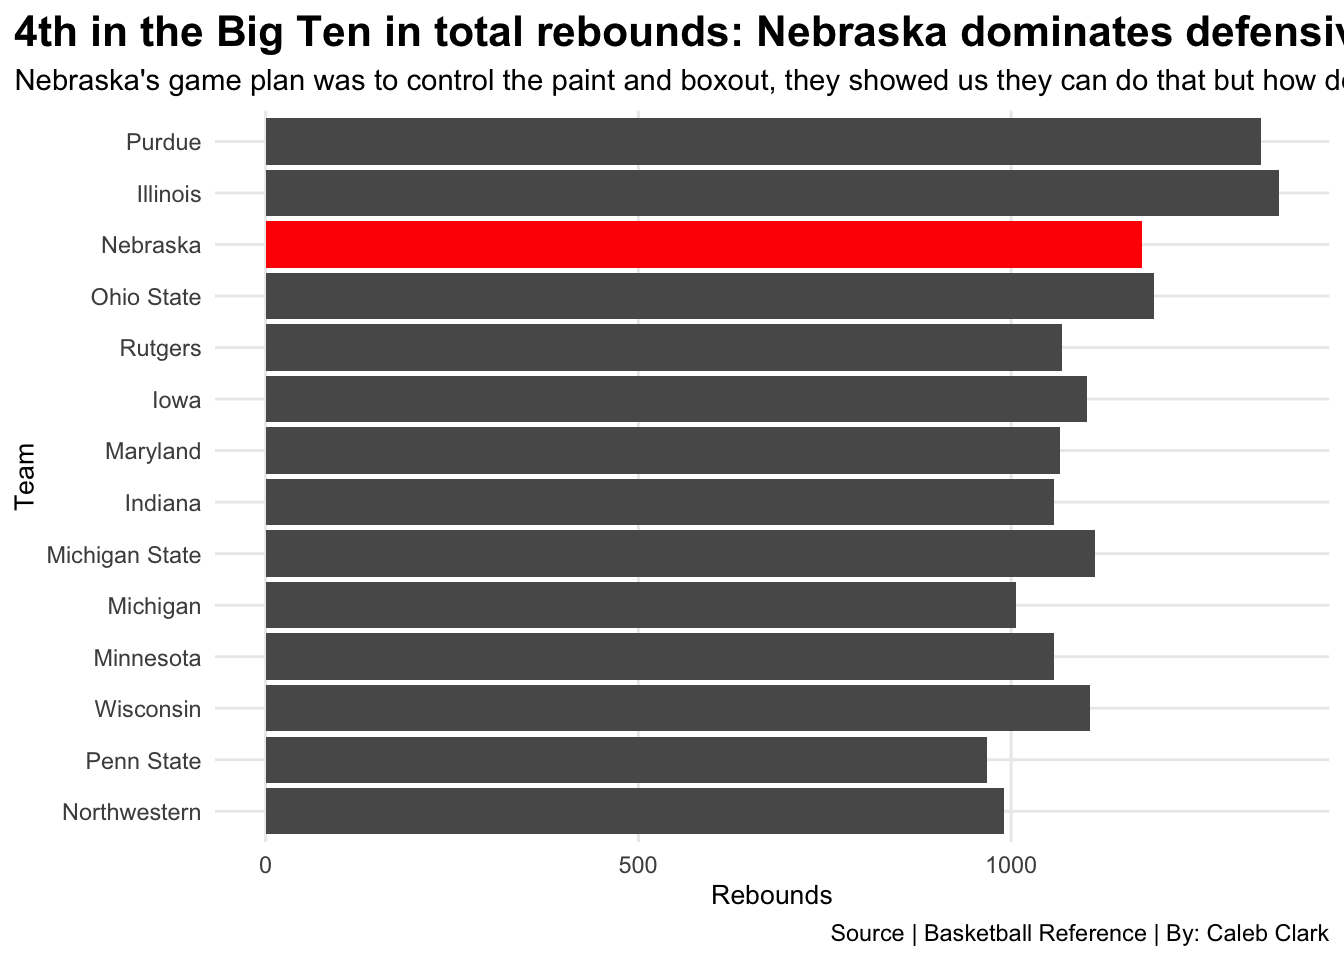
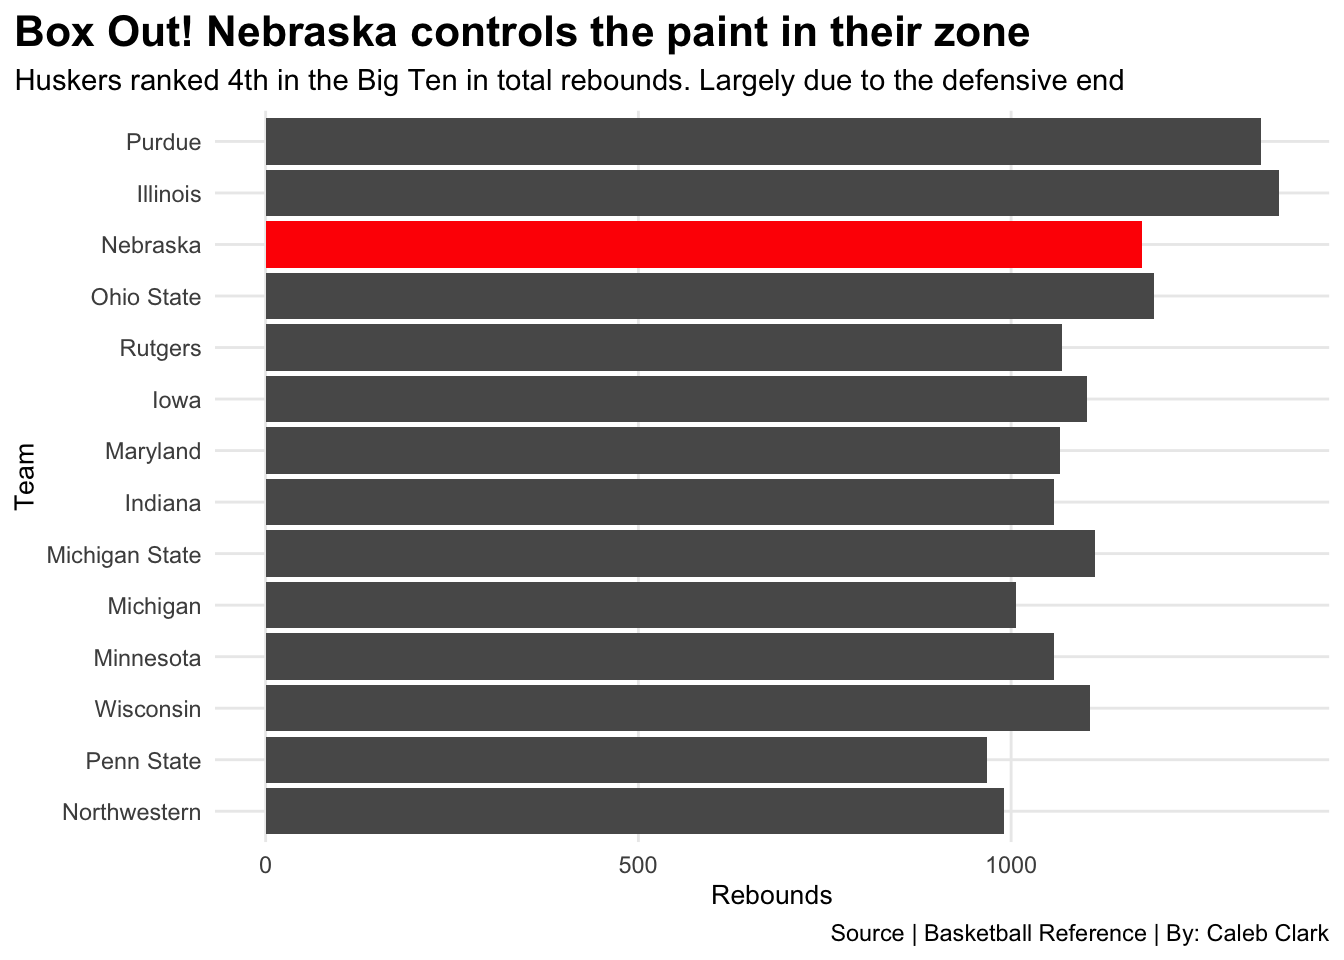
Updated blog

Changed region(s): [[0.0, 0.0, 1.0, 0.0938]]

diff --git a/posts/husker-basketball-rebounding-struggles/index.html b/posts/husker-basketball-rebounding-struggles/index.html
@@ -7,7 +7,7 @@
 <meta name="viewport" content="width=device-width, initial-scale=1.0, user-scalable=yes">
 
 <meta name="author" content="Caleb Clark">
-<meta name="dcterms.date" content="2024-11-05">
+<meta name="dcterms.date" content="2024-11-17">
 
 <title>Huskers rebounding is really good… and really bad. How? – Caleb Clark's Blog</title>
 <style>
@@ -176,7 +176,7 @@ pre > code.sourceCode > span > a:first-child::before { text-decoration: underlin
       <div>
       <div class="quarto-title-meta-heading">Published</div>
       <div class="quarto-title-meta-contents">
-        <p class="date">November 5, 2024</p>
+        <p class="date">November 17, 2024</p>
       </div>
     </div>
     
@@ -296,8 +296,8 @@ pre > code.sourceCode > span > a:first-child::before { text-decoration: underlin
 <span id="cb3-11"><a href="#cb3-11" aria-hidden="true" tabindex="-1"></a>  <span class="fu">geom_bar</span>(<span class="at">data=</span>huskers, <span class="fu">aes</span>(<span class="at">x=</span><span class="fu">reorder</span>(Team, TeamTotalRebounds), <span class="at">weight=</span>TeamTotalRebounds), <span class="at">fill=</span><span class="st">"red"</span>) <span class="sc">+</span></span>
 <span id="cb3-12"><a href="#cb3-12" aria-hidden="true" tabindex="-1"></a>  <span class="fu">coord_flip</span>() <span class="sc">+</span></span>
 <span id="cb3-13"><a href="#cb3-13" aria-hidden="true" tabindex="-1"></a> <span class="fu">labs</span>(</span>
-<span id="cb3-14"><a href="#cb3-14" aria-hidden="true" tabindex="-1"></a>    <span class="at">title =</span> <span class="st">"4th in the Big Ten in total rebounds: Nebraska dominates defensively"</span>,</span>
-<span id="cb3-15"><a href="#cb3-15" aria-hidden="true" tabindex="-1"></a>    <span class="at">subtitle =</span> <span class="st">"Nebraska's game plan was to control the paint and boxout, they showed us they can do that but how does it compare offensively"</span>,</span>
+<span id="cb3-14"><a href="#cb3-14" aria-hidden="true" tabindex="-1"></a>    <span class="at">title =</span> <span class="st">"Box Out! Nebraska controls the paint in their zone"</span>,</span>
+<span id="cb3-15"><a href="#cb3-15" aria-hidden="true" tabindex="-1"></a>    <span class="at">subtitle =</span> <span class="st">"Huskers ranked 4th in the Big Ten in total rebounds. Largely due to the defensive end"</span>,</span>
 <span id="cb3-16"><a href="#cb3-16" aria-hidden="true" tabindex="-1"></a>    <span class="at">x =</span> <span class="st">"Team"</span>,</span>
 <span id="cb3-17"><a href="#cb3-17" aria-hidden="true" tabindex="-1"></a>    <span class="at">y =</span> <span class="st">"Rebounds"</span>,</span>
 <span id="cb3-18"><a href="#cb3-18" aria-hidden="true" tabindex="-1"></a>    <span class="at">fill =</span> <span class="st">"Rebound Type"</span>,</span>
@@ -331,23 +331,22 @@ pre > code.sourceCode > span > a:first-child::before { text-decoration: underlin
 <span id="cb4-3"><a href="#cb4-3" aria-hidden="true" tabindex="-1"></a>  <span class="fu">geom_bar</span>(<span class="at">data=</span>huskers, <span class="fu">aes</span>(<span class="at">x=</span><span class="fu">reorder</span>(Team, TeamOffRebounds), <span class="at">weight=</span>TeamOffRebounds), <span class="at">fill=</span><span class="st">"red"</span>) <span class="sc">+</span></span>
 <span id="cb4-4"><a href="#cb4-4" aria-hidden="true" tabindex="-1"></a>  <span class="fu">coord_flip</span>() <span class="sc">+</span></span>
 <span id="cb4-5"><a href="#cb4-5" aria-hidden="true" tabindex="-1"></a> <span class="fu">labs</span>(</span>
-<span id="cb4-6"><a href="#cb4-6" aria-hidden="true" tabindex="-1"></a>    <span class="at">title =</span> <span class="st">"The downfall of the Huskers. Their rebounding formula did not translate to the offensive side of the ball"</span>,</span>
-<span id="cb4-7"><a href="#cb4-7" aria-hidden="true" tabindex="-1"></a>    <span class="at">subtitle =</span> <span class="st">"They fell short not generating enough second chance opportunities"</span>,</span>
+<span id="cb4-6"><a href="#cb4-6" aria-hidden="true" tabindex="-1"></a>    <span class="at">title =</span> <span class="st">"Downfall of the Huskers. Can't get second chances"</span>,</span>
+<span id="cb4-7"><a href="#cb4-7" aria-hidden="true" tabindex="-1"></a>    <span class="at">subtitle =</span> <span class="st">"Huskers finished 11th in offensive rebounds, not matching their production on the defensive end"</span>,</span>
 <span id="cb4-8"><a href="#cb4-8" aria-hidden="true" tabindex="-1"></a>    <span class="at">x =</span> <span class="st">"Team"</span>,</span>
 <span id="cb4-9"><a href="#cb4-9" aria-hidden="true" tabindex="-1"></a>    <span class="at">y =</span> <span class="st">"Offensive Rebounds"</span>,</span>
 <span id="cb4-10"><a href="#cb4-10" aria-hidden="true" tabindex="-1"></a>    <span class="at">fill =</span> <span class="st">"Rebound Type"</span>,</span>
 <span id="cb4-11"><a href="#cb4-11" aria-hidden="true" tabindex="-1"></a>    <span class="at">caption =</span> <span class="st">"Source | Basketball Reference | By: Caleb Clark"</span></span>
 <span id="cb4-12"><a href="#cb4-12" aria-hidden="true" tabindex="-1"></a>    </span>
-<span id="cb4-13"><a href="#cb4-13" aria-hidden="true" tabindex="-1"></a>    </span>
-<span id="cb4-14"><a href="#cb4-14" aria-hidden="true" tabindex="-1"></a>  ) <span class="sc">+</span></span>
-<span id="cb4-15"><a href="#cb4-15" aria-hidden="true" tabindex="-1"></a>  <span class="fu">theme_minimal</span>()<span class="sc">+</span></span>
-<span id="cb4-16"><a href="#cb4-16" aria-hidden="true" tabindex="-1"></a>    <span class="fu">theme</span>(</span>
-<span id="cb4-17"><a href="#cb4-17" aria-hidden="true" tabindex="-1"></a>    <span class="at">plot.title =</span> <span class="fu">element_text</span>(<span class="at">size =</span> <span class="dv">16</span>, <span class="at">face=</span> <span class="st">"bold"</span>),</span>
-<span id="cb4-18"><a href="#cb4-18" aria-hidden="true" tabindex="-1"></a>    <span class="at">axis.title =</span> <span class="fu">element_text</span>(<span class="at">size=</span><span class="dv">10</span>),</span>
-<span id="cb4-19"><a href="#cb4-19" aria-hidden="true" tabindex="-1"></a>    <span class="at">plot.subtitle =</span> <span class="fu">element_text</span>(<span class="at">size=</span><span class="dv">11</span>),</span>
-<span id="cb4-20"><a href="#cb4-20" aria-hidden="true" tabindex="-1"></a>    <span class="at">plot.title.position =</span> <span class="st">"plot"</span>,</span>
-<span id="cb4-21"><a href="#cb4-21" aria-hidden="true" tabindex="-1"></a>    <span class="at">panel.grid.minor =</span> <span class="fu">element_blank</span>()</span>
-<span id="cb4-22"><a href="#cb4-22" aria-hidden="true" tabindex="-1"></a>)</span></code><button title="Copy to Clipboard" class="code-copy-button"><i class="bi"></i></button></pre></div>
+<span id="cb4-13"><a href="#cb4-13" aria-hidden="true" tabindex="-1"></a>  ) <span class="sc">+</span></span>
+<span id="cb4-14"><a href="#cb4-14" aria-hidden="true" tabindex="-1"></a>  <span class="fu">theme_minimal</span>()<span class="sc">+</span></span>
+<span id="cb4-15"><a href="#cb4-15" aria-hidden="true" tabindex="-1"></a>    <span class="fu">theme</span>(</span>
+<span id="cb4-16"><a href="#cb4-16" aria-hidden="true" tabindex="-1"></a>    <span class="at">plot.title =</span> <span class="fu">element_text</span>(<span class="at">size =</span> <span class="dv">16</span>, <span class="at">face=</span> <span class="st">"bold"</span>),</span>
+<span id="cb4-17"><a href="#cb4-17" aria-hidden="true" tabindex="-1"></a>    <span class="at">axis.title =</span> <span class="fu">element_text</span>(<span class="at">size=</span><span class="dv">10</span>),</span>
+<span id="cb4-18"><a href="#cb4-18" aria-hidden="true" tabindex="-1"></a>    <span class="at">plot.subtitle =</span> <span class="fu">element_text</span>(<span class="at">size=</span><span class="dv">11</span>),</span>
+<span id="cb4-19"><a href="#cb4-19" aria-hidden="true" tabindex="-1"></a>    <span class="at">plot.title.position =</span> <span class="st">"plot"</span>,</span>
+<span id="cb4-20"><a href="#cb4-20" aria-hidden="true" tabindex="-1"></a>    <span class="at">panel.grid.minor =</span> <span class="fu">element_blank</span>()</span>
+<span id="cb4-21"><a href="#cb4-21" aria-hidden="true" tabindex="-1"></a>)</span></code><button title="Copy to Clipboard" class="code-copy-button"><i class="bi"></i></button></pre></div>
 </details>
 <div class="cell-output-display">
 <div>
@@ -417,7 +416,7 @@ pre > code.sourceCode > span > a:first-child::before { text-decoration: underlin
 <span id="cb5-53"><a href="#cb5-53" aria-hidden="true" tabindex="-1"></a>  <span class="at">x=</span> <span class="st">"Total rebounds during the 2023-24 season"</span>,</span>
 <span id="cb5-54"><a href="#cb5-54" aria-hidden="true" tabindex="-1"></a>  <span class="at">y=</span><span class="st">"Offensive rebounds during 2023-24 season"</span>,</span>
 <span id="cb5-55"><a href="#cb5-55" aria-hidden="true" tabindex="-1"></a>  <span class="at">title =</span> <span class="st">"Huskers rebounding compared to top teams in NCAA"</span>,</span>
-<span id="cb5-56"><a href="#cb5-56" aria-hidden="true" tabindex="-1"></a>  <span class="at">subtitle=</span> <span class="st">"Nebraksa competed defensively against some of the top teams in the NCAA but fell short on the offensive glass"</span>,</span>
+<span id="cb5-56"><a href="#cb5-56" aria-hidden="true" tabindex="-1"></a>  <span class="at">subtitle=</span> <span class="st">"Nebraska ranks highly in total rebounds but you see their true defect in offensive rebounds"</span>,</span>
 <span id="cb5-57"><a href="#cb5-57" aria-hidden="true" tabindex="-1"></a>  <span class="at">caption=</span><span class="st">"Source | Basketball Reference | By: Caleb Clark"</span></span>
 <span id="cb5-58"><a href="#cb5-58" aria-hidden="true" tabindex="-1"></a>)<span class="sc">+</span></span>
 <span id="cb5-59"><a href="#cb5-59" aria-hidden="true" tabindex="-1"></a><span class="fu">theme_minimal</span>()<span class="sc">+</span></span>

diff --git a/index.html b/index.html
@@ -210,7 +210,7 @@ window.Quarto = {
 
 <div class="quarto-listing quarto-listing-container-default" id="listing-listing">
 <div class="list quarto-listing-default">
-<div class="quarto-post image-right" data-index="0" data-categories="bmNhYSxiYXNrZXRiYWxsLGh1c2tlcnM=" data-listing-date-sort="1730786400000" data-listing-file-modified-sort="1731874043764" data-listing-date-modified-sort="NaN" data-listing-reading-time-sort="9" data-listing-word-count-sort="1719">
+<div class="quarto-post image-right" data-index="0" data-categories="bmNhYSxiYXNrZXRiYWxsLGh1c2tlcnM=" data-listing-date-sort="1731823200000" data-listing-file-modified-sort="1731882913147" data-listing-date-modified-sort="NaN" data-listing-reading-time-sort="9" data-listing-word-count-sort="1698">
 <div class="thumbnail">
 <p><a href="./posts/husker-basketball-rebounding-struggles/index.html" class="no-external"></a></p><a href="./posts/husker-basketball-rebounding-struggles/index.html" class="no-external">
 <p class="card-img-top"><img src="posts/husker-basketball-rebounding-struggles/index_files/figure-html/unnamed-chunk-1-1.png"  class="thumbnail-image card-img"/></p>
@@ -241,7 +241,7 @@ huskers
 <div class="metadata">
 <a href="./posts/husker-basketball-rebounding-struggles/index.html" class="no-external">
 <div class="listing-date">
-Nov 5, 2024
+Nov 17, 2024
 </div>
 <div class="listing-author">
 Caleb Clark
